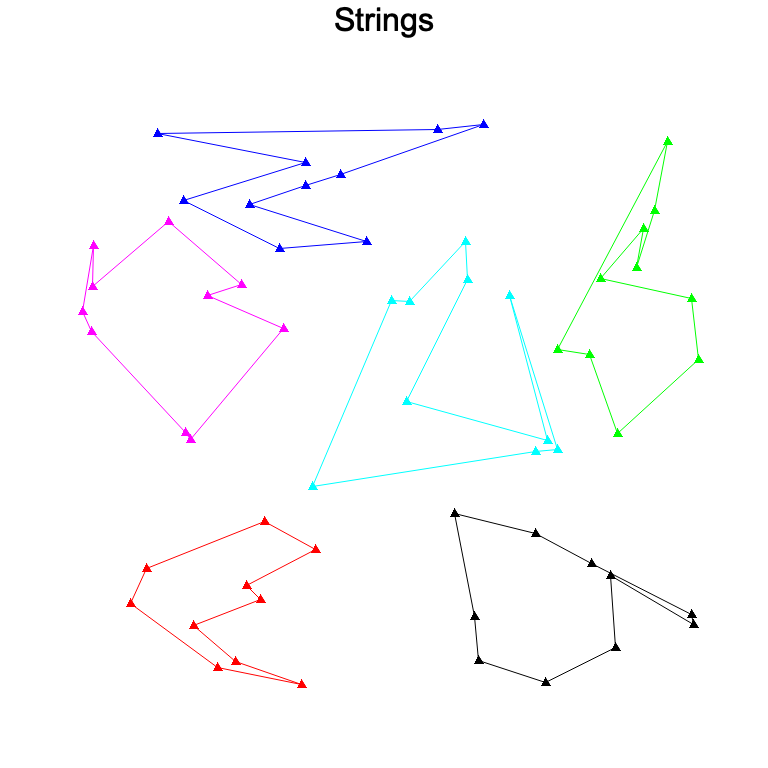
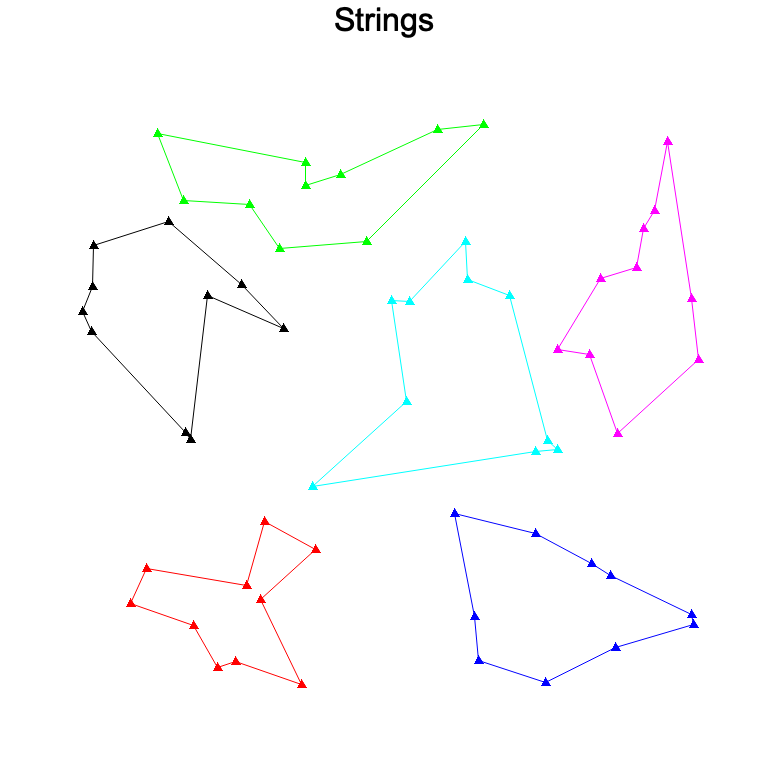
cluster, open string and close string same color

diff --git a/src/cluster.rs b/src/cluster.rs
@@ -1,4 +1,5 @@
-use rand::Rng;
+use rand::prelude::*;
+use rand_chacha::ChaCha8Rng;
 
 #[derive(Debug, Clone)]
 struct Cluster {
@@ -6,26 +7,32 @@ struct Cluster {
     length: usize,
     order: Vec<usize>,
     salesmen_capacities: Vec<usize>,
+    rng: Option<ChaCha8Rng>,
 }
 
 impl Cluster {
-    fn new(points: &[(f32, f32)], salesmen_capacities: &[usize]) -> Self {
+    fn new(points: &[(f32, f32)], salesmen_capacities: &[usize], seed: Option<u64>) -> Self {
         let points = points.to_owned();
         let length = points.len();
         assert!(length == salesmen_capacities.iter().sum()); // check valid capacities
 
         let salesmen_capacities = salesmen_capacities.to_vec();
         let order = (0..length).collect::<Vec<usize>>();
+        let rng = seed.map(ChaCha8Rng::seed_from_u64);
         Self {
             points,
             length,
             order,
             salesmen_capacities,
+            rng,
         }
     }
 
-    fn random_pos(&self) -> usize {
-        rand::thread_rng().gen_range(0..(self.points.len()))
+    fn random_pos(&mut self) -> usize {
+        match &mut self.rng {
+            Some(chacha) => chacha.gen_range(1..(self.points.len())),
+            None => rand::thread_rng().gen_range(1..(self.points.len())),
+        }
     }
 
     fn index(&self, i: usize) -> usize {
@@ -59,7 +66,10 @@ impl Cluster {
         let i = self.random_pos();
         let j = self.random_pos();
         let delta = self.delta_distance_slow(i, j);
-        let r: f32 = rand::thread_rng().gen();
+        let r: f32 = match &mut self.rng {
+            Some(chacha) => chacha.gen(),
+            None => rand::thread_rng().gen(),
+        };
         if delta < 0.0 || r < (-delta / temp).exp() {
             self.swap(i, j);
         }
@@ -70,8 +80,9 @@ pub fn cluster_order(
     points: &[(f32, f32)],
     salesmen_capacities: &[usize],
     intensity: f32,
+    seed: Option<u64>,
 ) -> Vec<usize> {
-    let mut cluster = Cluster::new(points, salesmen_capacities);
+    let mut cluster = Cluster::new(points, salesmen_capacities, seed);
     if points.len() < 2 {
         return cluster.order;
     }
@@ -97,8 +108,9 @@ pub fn best_cluster(
     points: &[(f32, f32)],
     salesmen_capacities: &[usize],
     intensity: f32,
+    seed: Option<u64>,
 ) -> Vec<(f32, f32)> {
-    let order = cluster_order(points, salesmen_capacities, intensity);
+    let order = cluster_order(points, salesmen_capacities, intensity, seed);
     get_cluster_from_order(points, &order)
 }
 

diff --git a/src/bin/chrono.rs b/src/bin/chrono.rs
@@ -8,11 +8,12 @@ fn main() {
 fn time_cluster_duration_varying_num_points() {
     let arr = [20, 40, 80, 160, 320, 640];
     let intensity = 10.0;
+    let seed = Some(42);
     for num_points in arr {
-        let rand_points = salesman::example::rand_points_from_chacha(num_points, 42);
+        let rand_points = salesman::example::rand_points_from_chacha(num_points, seed);
         let salesmen_capacities = [num_points / 4; 4];
         let f = || {
-            salesman::cluster::best_cluster(&rand_points, &salesmen_capacities, intensity);
+            salesman::cluster::best_cluster(&rand_points, &salesmen_capacities, intensity, seed);
         };
         println!(
             "Clustering with {} points: {} milliseconds.",
@@ -25,11 +26,12 @@ fn time_cluster_duration_varying_num_points() {
 fn time_cluster_duration_varying_intensity() {
     let arr = [10., 10.5, 11., 11.5, 12.];
     let num_points = 40;
-    let rand_points = salesman::example::rand_points_from_chacha(num_points, 42);
+    let seed = Some(42);
+    let rand_points = salesman::example::rand_points_from_chacha(num_points, seed);
     for intensity in arr {
         let salesmen_capacities = [num_points / 4; 4];
         let f = || {
-            salesman::cluster::best_cluster(&rand_points, &salesmen_capacities, intensity);
+            salesman::cluster::best_cluster(&rand_points, &salesmen_capacities, intensity, seed);
         };
         println!(
             "Clustering with intensity {}: {} milliseconds.",
@@ -44,7 +46,7 @@ fn time_salesman_duration() {
     let arr = [10, 20, 40, 80, 160, 300, 320];
     let seed = Some(42);
     for num_points in arr {
-        let rand_points = salesman::example::rand_points_from_chacha(num_points, 42);
+        let rand_points = salesman::example::rand_points_from_chacha(num_points, seed);
         let f = || {
             salesman::anneal::shortest_path(&rand_points, 1, true, seed);
         };

diff --git a/src/bin/graph_strings.rs b/src/bin/graph_strings.rs
@@ -2,18 +2,35 @@ use plotters::prelude::*;
 
 fn main() {
     let num_points = 60;
-    let seed = 42;
+    let seed = Some(42);
+    let intensity = 10.0;
     let points = salesman::example::rand_points_from_chacha(num_points, seed);
     let salesmen_capacities = [num_points / 6; 6];
-    let order = salesman::string::get_string_order(&points, &salesmen_capacities, Some(seed));
+    let order = salesman::string::get_string_order(&points, &salesmen_capacities, intensity, seed);
     plot(
         &points,
         &order,
         &salesmen_capacities,
         true,
+        false,
+        "clusters",
+    );
+    plot(
+        &points,
+        &order,
+        &salesmen_capacities,
+        true,
+        true,
         "closed_strings",
     );
-    plot(&points, &order, &salesmen_capacities, false, "open_strings");
+    plot(
+        &points,
+        &order,
+        &salesmen_capacities,
+        false,
+        true,
+        "open_strings",
+    );
 }
 
 fn plot(
@@ -21,6 +38,7 @@ fn plot(
     _order: &[usize],
     _salesmen_capacities: &[usize],
     is_loop: bool,
+    display_string: bool,
     filename: &str,
 ) {
     let points = _points.to_vec();
@@ -57,12 +75,13 @@ fn plot(
                 .map(|point| TriangleMarker::new(*point, 5, my_color)),
         )
         .unwrap();
-
-        ctx.draw_series(
-            vec![1]
-                .iter()
-                .map(|_| PathElement::new(filtered_points.clone(), my_color)),
-        )
-        .unwrap();
+        if display_string {
+            ctx.draw_series(
+                vec![1]
+                    .iter()
+                    .map(|_| PathElement::new(filtered_points.clone(), my_color)),
+            )
+            .unwrap();
+        }
     }
 }

diff --git a/src/anneal.rs b/src/anneal.rs
@@ -9,7 +9,7 @@ struct Path {
     length: usize,
     order: Vec<usize>,
     distances: Vec<f32>,
-    seed: Option<u64>,
+    rng: Option<ChaCha8Rng>,
 }
 
 impl Path {
@@ -23,18 +23,19 @@ impl Path {
                 distances[i * length + j] = crate::utils::distance(points[i], points[j]);
             }
         }
+        let rng = seed.map(ChaCha8Rng::seed_from_u64);
         Self {
             points,
             length,
             order,
             distances,
-            seed,
+            rng,
         }
     }
 
-    fn random_pos(&self) -> usize {
-        match self.seed {
-            Some(seed) => ChaCha8Rng::seed_from_u64(seed).gen_range(1..(self.points.len())),
+    fn random_pos(&mut self) -> usize {
+        match &mut self.rng {
+            Some(chacha) => chacha.gen_range(1..(self.points.len())),
             None => rand::thread_rng().gen_range(1..(self.points.len())),
         }
     }
@@ -96,8 +97,8 @@ impl Path {
         let i = self.random_pos();
         let j = self.random_pos();
         let delta = self.delta_distance(i, j);
-        let r: f32 = match self.seed {
-            Some(seed) => ChaCha8Rng::seed_from_u64(seed).gen(),
+        let r: f32 = match &mut self.rng {
+            Some(chacha) => chacha.gen(),
             None => rand::thread_rng().gen(),
         };
         if delta < 0.0 || r < (-delta / temp).exp() {
@@ -131,7 +132,7 @@ fn path_order_once(
         result = path.order;
     }
     if !is_loop {
-        result = crate::untangle::disconnect_longest_string(&points, &result)
+        result = crate::untangle::disconnect_longest_string(points, &result)
     }
     result
 }

diff --git a/src/example.rs b/src/example.rs
@@ -27,13 +27,22 @@ pub fn rand_points(num_points: usize) -> Vec<(f32, f32)> {
     points
 }
 
-pub fn rand_points_from_chacha(num_points: usize, seed: u64) -> Vec<(f32, f32)> {
+pub fn rand_points_from_chacha(num_points: usize, seed: Option<u64>) -> Vec<(f32, f32)> {
     let mut points = Vec::new();
-    let mut rng = ChaCha8Rng::seed_from_u64(seed);
-    for _ in 0..num_points {
-        let x = rng.gen_range(-1.0..1.0);
-        let y = rng.gen_range(-1.0..1.0);
-        points.push((x, y));
+    if let Some(i) = seed {
+        let mut rng = ChaCha8Rng::seed_from_u64(i);
+        for _ in 0..num_points {
+            let x = rng.gen_range(-1.0..1.0);
+            let y = rng.gen_range(-1.0..1.0);
+            points.push((x, y));
+        }
+    } else {
+        let mut rng = thread_rng();
+        for _ in 0..num_points {
+            let x = rng.gen_range(-1.0..1.0);
+            let y = rng.gen_range(-1.0..1.0);
+            points.push((x, y));
+        }
     }
     points
 }

diff --git a/src/string.rs b/src/string.rs
@@ -1,9 +1,11 @@
 pub fn get_string_order(
     points: &[(f32, f32)],
     salesmen_capacities: &[usize],
+    intensity: f32,
     seed: Option<u64>,
 ) -> Vec<usize> {
-    let mut clustered_order = crate::cluster::cluster_order(&points, &salesmen_capacities, 10.0);
+    let mut clustered_order =
+        crate::cluster::cluster_order(points, salesmen_capacities, intensity, seed);
     for i in 0..salesmen_capacities.len() {
         let range_start = salesmen_capacities[0..i].iter().sum::<usize>();
         let range_end = salesmen_capacities[0..(i + 1)].iter().sum::<usize>();

diff --git a/src/untangle.rs b/src/untangle.rs
@@ -42,11 +42,11 @@ pub fn disconnect_longest_string(points: &[(f32, f32)], order: &[usize]) -> Vec<
         }
     }
     let mut new_order = Vec::new();
-    for i in (index_of_longest_string + 1)..n {
-        new_order.push(order[i]);
+    for &item in order.iter().take(n).skip(index_of_longest_string + 1) {
+        new_order.push(item);
     }
-    for i in 0..(index_of_longest_string + 1) {
-        new_order.push(order[i]);
+    for &item in order.iter().take(index_of_longest_string + 1) {
+        new_order.push(item);
     }
     new_order
 }

diff --git a/src/bin/graph_one_salesman.rs b/src/bin/graph_one_salesman.rs
@@ -1,8 +1,8 @@
 use plotters::prelude::*;
 fn main() {
-    let seed = 42;
+    let seed = Some(42);
     let rand_points = salesman::example::rand_points_from_chacha(20, seed);
-    let points = salesman::anneal::shortest_path(&rand_points, 2, true, Some(seed));
+    let points = salesman::anneal::shortest_path(&rand_points, 2, true, seed);
     plot_hamiltonian_loop(&points);
 }
 
